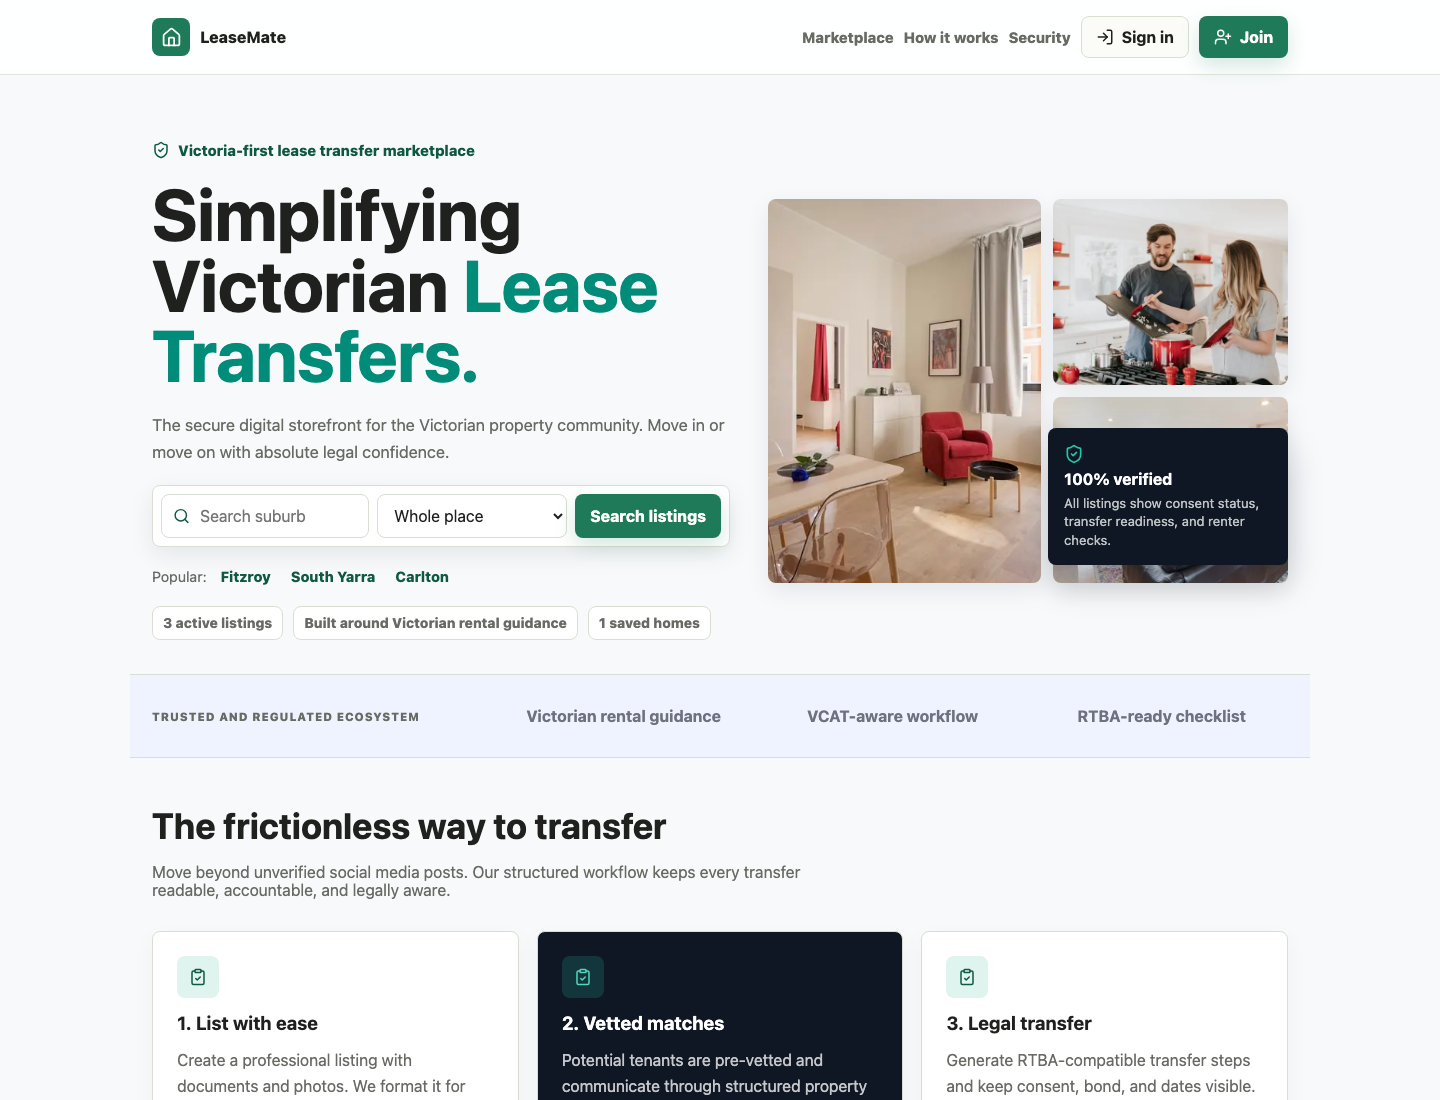
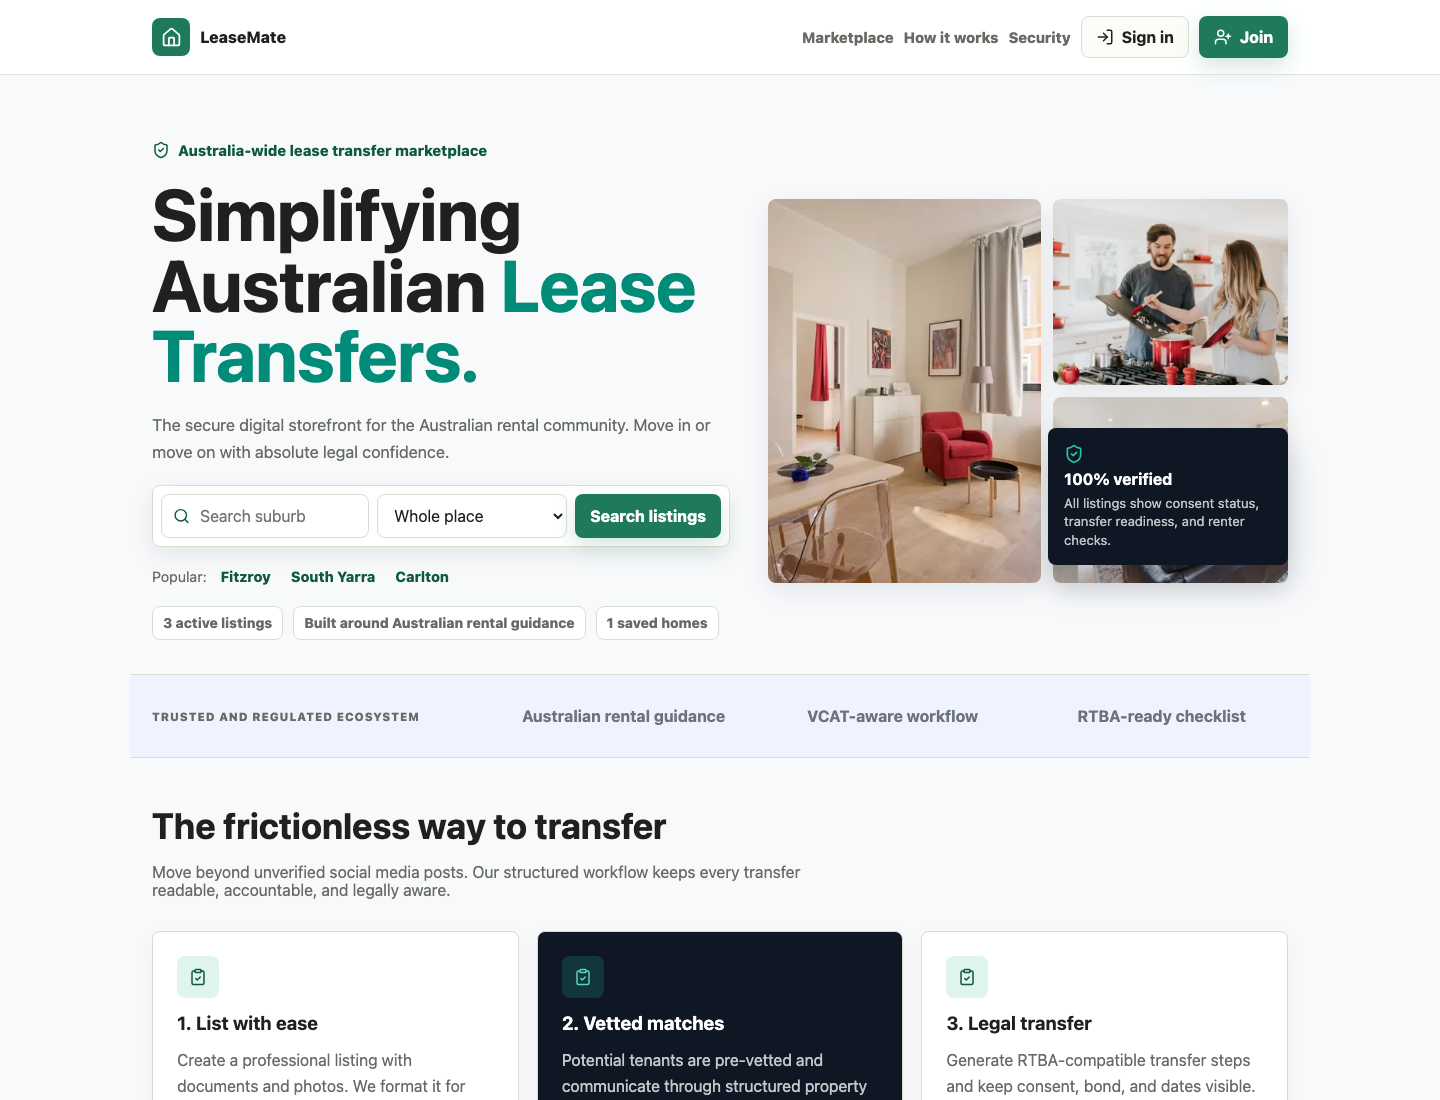
Make LeaseMate Australia-wide

diff --git a/src/components/marketplace.tsx b/src/components/marketplace.tsx
@@ -65,13 +65,13 @@ export function Marketplace({ listings, analytics }: MarketplaceProps) {
         <div className="marketplace-hero-copy">
           <span className="eyebrow">
             <ShieldCheck size={18} />
-            Victoria-first lease transfer marketplace
+            Australia-wide lease transfer marketplace
           </span>
           <h1>
-            Simplifying Victorian <span>Lease Transfers.</span>
+            Simplifying Australian <span>Lease Transfers.</span>
           </h1>
           <p>
-            The secure digital storefront for the Victorian property community. Move in
+            The secure digital storefront for the Australian rental community. Move in
             or move on with absolute legal confidence.
           </p>
           <div className="hero-search" aria-label="Quick listing search">
@@ -108,7 +108,7 @@ export function Marketplace({ listings, analytics }: MarketplaceProps) {
           </div>
           <div className="marketplace-proof-row" aria-label="LeaseMate traction">
             <span>{listings.length} active listings</span>
-            <span>Built around Victorian rental guidance</span>
+            <span>Built around Australian rental guidance</span>
             <span>{analytics?.saves ?? 0} saved homes</span>
           </div>
         </div>
@@ -130,7 +130,7 @@ export function Marketplace({ listings, analytics }: MarketplaceProps) {
           />
           <Image
             src="https://images.unsplash.com/photo-1560185007-c5ca9d2c014d?auto=format&fit=crop&w=600&q=80"
-            alt="Melbourne terrace home"
+            alt="Australian terrace home"
             width={420}
             height={420}
           />
@@ -144,7 +144,7 @@ export function Marketplace({ listings, analytics }: MarketplaceProps) {
 
       <section className="trust-strip" aria-label="Trusted and regulated ecosystem">
         <span>Trusted and regulated ecosystem</span>
-        <strong>Victorian rental guidance</strong>
+        <strong>Australian rental guidance</strong>
         <strong>VCAT-aware workflow</strong>
         <strong>RTBA-ready checklist</strong>
       </section>
@@ -161,7 +161,7 @@ export function Marketplace({ listings, analytics }: MarketplaceProps) {
         </div>
         <div className="flow-card-grid">
           {[
-            ["1. List with ease", "Create a professional listing with documents and photos. We format it for Victorian rental standards."],
+            ["1. List with ease", "Create a professional listing with documents and photos. We format it for Australian rental standards."],
             ["2. Vetted matches", "Potential tenants are pre-vetted and communicate through structured property context."],
             ["3. Legal transfer", "Generate RTBA-compatible transfer steps and keep consent, bond, and dates visible."],
           ].map(([title, body], index) => (
@@ -181,7 +181,7 @@ export function Marketplace({ listings, analytics }: MarketplaceProps) {
               <SlidersHorizontal size={16} />
               Marketplace
             </span>
-            <h2>{filteredListings.length} properties found in Victoria</h2>
+            <h2>{filteredListings.length} properties found across Australia</h2>
             <p className="muted">
               Sort, compare, and shortlist rentals by readiness before you message the renter.
             </p>

diff --git a/tests/listing-service.test.ts b/tests/listing-service.test.ts
@@ -13,6 +13,7 @@ describe("listing service", () => {
     const input = normaliseListingFormInput({
       title: "  Carlton lease transfer ",
       suburb: "Carlton",
+      state: "VIC",
       postcode: "3053",
       listingType: "lease_transfer",
       consentStatus: "approved",
@@ -49,6 +50,7 @@ describe("listing service", () => {
     const input = normaliseListingFormInput({
       title: "Carlton lease transfer",
       suburb: "Carlton",
+      state: "VIC",
       postcode: "3053",
       listingType: "lease_transfer",
       consentStatus: "pending",
@@ -80,6 +82,7 @@ describe("listing service", () => {
     const input = normaliseListingFormInput({
       title: "Carlton lease transfer",
       suburb: "Carlton",
+      state: "VIC",
       postcode: "3053",
       listingType: "lease_transfer",
       consentStatus: "approved",
@@ -107,6 +110,7 @@ describe("listing service", () => {
     const input = normaliseListingFormInput({
       title: "Carlton lease transfer",
       suburb: "Carlton",
+      state: "VIC",
       postcode: "3053",
       listingType: "lease_transfer",
       consentStatus: "approved",
@@ -134,6 +138,7 @@ describe("listing service", () => {
     const input = normaliseListingFormInput({
       title: "Carlton lease transfer",
       suburb: "Carlton",
+      state: "VIC",
       postcode: "3053",
       listingType: "temporary_sublet",
       consentStatus: "approved",
@@ -163,6 +168,7 @@ describe("listing service", () => {
       {
         title: "Carlton lease transfer",
         suburb: "Carlton",
+        state: "VIC",
         postcode: "3053",
         listingType: "lease_transfer",
         consentStatus: "approved",
@@ -195,6 +201,7 @@ describe("listing service", () => {
     const data = buildListingUpdateData({
       title: "Updated Carlton lease transfer",
       suburb: "Carlton North",
+      state: "VIC",
       postcode: "3054",
       listingType: "room_replacement",
       consentStatus: "pending",

diff --git a/tests/e2e/marketplace.spec.ts b/tests/e2e/marketplace.spec.ts
@@ -4,10 +4,10 @@ test("search filters lease listings by suburb", async ({ page }) => {
   await page.goto("/");
 
   await expect(
-    page.getByRole("heading", { name: "Simplifying Victorian Lease Transfers." }),
+    page.getByRole("heading", { name: "Simplifying Australian Lease Transfers." }),
   ).toBeVisible();
-  await expect(page.getByText("Built around Victorian rental guidance")).toBeVisible();
-  await expect(page.getByText("Verified by Consumer Affairs Victoria")).toHaveCount(0);
+  await expect(page.getByText("Built around Australian rental guidance")).toBeVisible();
+  await expect(page.getByText("Verified by Consumer Affairs")).toHaveCount(0);
   await expect(page.locator(".listing-card")).toHaveCount(3);
 
   await page.getByRole("textbox", { name: "Search listings" }).fill("Box Hill");
@@ -30,9 +30,9 @@ test("authenticated renter lands on personalized home", async ({ page }) => {
   await expect(page.getByRole("heading", { name: /Welcome back,/ })).toBeVisible();
   await expect(page.getByText("Recommended for you")).toBeVisible();
   await expect(page.getByText("Your saved shortlist")).toBeVisible();
-  await expect(page.getByText("Based on currently available Victorian lease transfers.")).toBeVisible();
+  await expect(page.getByText("Based on currently available Australian lease transfers.")).toBeVisible();
   await expect(page.getByText("Richmond and Cremorne")).toHaveCount(0);
-  await expect(page.getByRole("heading", { name: "Simplifying Victorian Lease Transfers." })).toHaveCount(0);
+  await expect(page.getByRole("heading", { name: "Simplifying Australian Lease Transfers." })).toHaveCount(0);
 });
 
 test("authenticated renter can open and search the full marketplace", async ({ page }) => {

diff --git a/src/components/listing-create-form.tsx b/src/components/listing-create-form.tsx
@@ -10,6 +10,7 @@ const defaultImageUrl = "https://images.unsplash.com/photo-1560448204-e02f11c3d0
 export interface ListingFormValues {
   title: string;
   suburb: string;
+  state: "ACT" | "NSW" | "NT" | "QLD" | "SA" | "TAS" | "VIC" | "WA";
   postcode: string;
   listingType: "lease_transfer" | "temporary_sublet" | "room_replacement";
   consentStatus: "approved" | "pending" | "not_started";
@@ -33,6 +34,7 @@ export interface ListingFormValues {
 const defaultValues: ListingFormValues = {
   title: "Carlton lease transfer near tram",
   suburb: "Carlton",
+  state: "VIC",
   postcode: "3053",
   listingType: "lease_transfer",
   consentStatus: "approved",
@@ -124,6 +126,19 @@ export function ListingCreateForm({ mode = "create", listingId, initialValues = 
           <div className="form-field">
             <label htmlFor="suburb">Suburb</label>
             <input id="suburb" name="suburb" defaultValue={initialValues.suburb} required />
+          </div>
+          <div className="form-field">
+            <label htmlFor="state">State or territory</label>
+            <select id="state" name="state" defaultValue={initialValues.state}>
+              <option value="ACT">ACT</option>
+              <option value="NSW">NSW</option>
+              <option value="NT">NT</option>
+              <option value="QLD">QLD</option>
+              <option value="SA">SA</option>
+              <option value="TAS">TAS</option>
+              <option value="VIC">VIC</option>
+              <option value="WA">WA</option>
+            </select>
           </div>
           <div className="form-field">
             <label htmlFor="postcode">Postcode</label>

diff --git a/src/app/layout.tsx b/src/app/layout.tsx
@@ -4,9 +4,9 @@ import { AppHeader } from "@/components/app-header";
 import "./globals.css";
 
 export const metadata: Metadata = {
-  title: "LeaseMate | Safer lease transfers in Victoria",
+  title: "LeaseMate | Safer lease transfers across Australia",
   description:
-    "A Victoria-first lease transfer marketplace concept for renters moving beyond Facebook groups.",
+    "An Australia-wide lease transfer marketplace concept for renters moving beyond Facebook groups.",
 };
 
 export default function RootLayout({
@@ -24,11 +24,11 @@ export default function RootLayout({
             <div className="site-footer-inner">
               <div>
                 <strong>LeaseMate</strong>
-                <p>Helping Victorian renters move lease transfers out of risky posts and into structured, accountable workflows.</p>
+                <p>Helping Australian renters move lease transfers out of risky posts and into structured, accountable workflows.</p>
               </div>
               <nav aria-label="Footer links">
-                <a href="https://www.consumer.vic.gov.au/housing/renting" target="_blank" rel="noreferrer">
-                  Victorian tenancy
+                <a href="https://www.australia.gov.au" target="_blank" rel="noreferrer">
+                  Australian tenancy resources
                 </a>
                 <Link href="/listings/new">Transfer checklist</Link>
                 <Link href="/saved">Saved listings</Link>

diff --git a/src/components/home/authenticated-home.tsx b/src/components/home/authenticated-home.tsx
@@ -52,7 +52,7 @@ export function AuthenticatedHome({
         <div>
           <span className="eyebrow">
             <ShieldCheck size={16} />
-            Secure Victorian property marketplace
+            Secure Australian property marketplace
           </span>
           <h1>Welcome back, {firstName}</h1>
           <p>Here&apos;s what&apos;s happening with your lease search today.</p>
@@ -116,7 +116,7 @@ export function AuthenticatedHome({
         <div className="section-heading-row">
           <div>
             <h2>Recommended for you</h2>
-            <p className="muted">Based on currently available Victorian lease transfers.</p>
+            <p className="muted">Based on currently available Australian lease transfers.</p>
           </div>
           <Link className="text-link" href="/marketplace#listings">
             View all recommendations <ChevronRight size={16} />
@@ -165,7 +165,7 @@ function AuthenticatedListingCard({ listing }: { listing: LeaseListing }) {
       </Link>
       <div className="listing-card-body">
         <h2>${listing.rentPerWeek} pw</h2>
-        <h3>{listing.suburb}, VIC {listing.postcode}</h3>
+        <h3>{listing.suburb}, {listing.state} {listing.postcode}</h3>
         <div className="listing-card-summary">
           <span><Building2 size={15} /> {listing.bedrooms}</span>
           <span><Home size={15} /> {listing.bathrooms}</span>

diff --git a/src/lib/listing-view.ts b/src/lib/listing-view.ts
@@ -1,5 +1,5 @@
 import type { Listing, Report, SavedListing, User } from "@prisma/client";
-import type { LeaseListing } from "./listings";
+import type { AustralianState, LeaseListing } from "./listings";
 import { parseHighlights, toDomainConsentStatus, toDomainHousingType, toDomainListingType } from "./mappers";
 
 export type ListingWithOwner = Listing & {
@@ -14,7 +14,7 @@ export function listingRecordToLeaseListing(listing: ListingWithOwner): LeaseLis
     slug: listing.slug,
     title: listing.title,
     suburb: listing.suburb,
-    state: "VIC",
+    state: normaliseAustralianState(listing.state),
     postcode: listing.postcode,
     listingType: toDomainListingType(listing.listingType),
     consentStatus: toDomainConsentStatus(listing.consentStatus),
@@ -43,6 +43,11 @@ export function listingRecordToLeaseListing(listing: ListingWithOwner): LeaseLis
       responseTime: "Usually replies same day",
     },
   };
+}
+
+function normaliseAustralianState(state: string): AustralianState {
+  const supportedStates = ["ACT", "NSW", "NT", "QLD", "SA", "TAS", "VIC", "WA"] as const;
+  return supportedStates.find((candidate) => candidate === state) ?? "NSW";
 }
 
 function formatIsoDate(date: Date) {

diff --git a/src/app/login/page.tsx b/src/app/login/page.tsx
@@ -38,7 +38,7 @@ export default async function LoginPage({
           <section className="auth-visual-panel">
             <Image
               src="https://images.unsplash.com/photo-1494526585095-c41746248156?auto=format&fit=crop&w=1100&q=80"
-              alt="Bright Victorian apartment interior"
+              alt="Bright Australian apartment interior"
               width={900}
               height={1100}
               priority
@@ -48,9 +48,9 @@ export default async function LoginPage({
                 <ShieldCheck size={17} />
                 Verified listings
               </span>
-              <h1>Victoria Lease Collective</h1>
+              <h1>Australia Lease Collective</h1>
               <p>
-                Join Victoria&apos;s trusted marketplace for professional lease transfers.
+                Join Australia&apos;s trusted marketplace for professional lease transfers.
                 Secure, verified, and structured from first message.
               </p>
               <div className="auth-visual-points">

diff --git a/src/app/signup/page.tsx b/src/app/signup/page.tsx
@@ -18,7 +18,7 @@ export default async function SignupPage() {
         <section className="auth-visual-panel signup-visual-panel">
           <Image
             src="https://images.unsplash.com/photo-1518005020951-eccb494ad742?auto=format&fit=crop&w=1200&q=80"
-            alt="Melbourne apartment lounge at night"
+            alt="Australian apartment lounge at night"
             width={980}
             height={1100}
             priority
@@ -28,7 +28,7 @@ export default async function SignupPage() {
               <ShieldCheck size={17} />
               Transfer verified
             </span>
-            <h1>Victoria&apos;s premier lease collective.</h1>
+            <h1>Australia&apos;s premier lease collective.</h1>
             <p>
               Start your rental handover with verified documentation, renter-ready
               communication, and a cleaner workflow than social groups.

diff --git a/src/lib/server/listing-service.ts b/src/lib/server/listing-service.ts
@@ -24,6 +24,7 @@ const checkboxBoolean = z.preprocess((value) => {
 const listingFormSchema = z.object({
   title: z.string().trim().min(8, "Title must be at least 8 characters"),
   suburb: z.string().trim().min(2, "Suburb is required"),
+  state: z.enum(["ACT", "NSW", "NT", "QLD", "SA", "TAS", "VIC", "WA"]),
   postcode: z.string().trim().regex(/^\d{4}$/, "Postcode must be 4 digits"),
   listingType: z.enum(["lease_transfer", "temporary_sublet", "room_replacement"]),
   consentStatus: z.enum(["approved", "pending", "not_started"]),
@@ -123,6 +124,7 @@ export function buildListingUpdateData(data: ListingFormData) {
   return {
     title: data.title,
     suburb: data.suburb,
+    state: data.state,
     postcode: data.postcode,
     listingType: toPrismaListingType(data.listingType),
     consentStatus: toPrismaConsentStatus(data.consentStatus),

diff --git a/src/app/dashboard/page.tsx b/src/app/dashboard/page.tsx
@@ -35,7 +35,7 @@ export default async function DashboardPage() {
         <div>
           <span className="eyebrow">Owner dashboard</span>
           <h1>Welcome back, {user.name}</h1>
-          <p className="muted">Manage your Victorian lease transfers and renter enquiries.</p>
+          <p className="muted">Manage your Australian lease transfers and renter enquiries.</p>
         </div>
         <Link className="primary-button compact-button" href="/listings/new">Create new listing</Link>
       </div>

diff --git a/src/lib/listings.ts b/src/lib/listings.ts
@@ -11,7 +11,7 @@ export interface LeaseListing {
   slug: string;
   title: string;
   suburb: string;
-  state: "VIC";
+  state: AustralianState;
   postcode: string;
   listingType: ListingType;
   consentStatus: ConsentStatus;
@@ -33,6 +33,8 @@ export interface LeaseListing {
     responseTime: string;
   };
 }
+
+export type AustralianState = "ACT" | "NSW" | "NT" | "QLD" | "SA" | "TAS" | "VIC" | "WA";
 
 export const leaseListings: LeaseListing[] = [
   {
